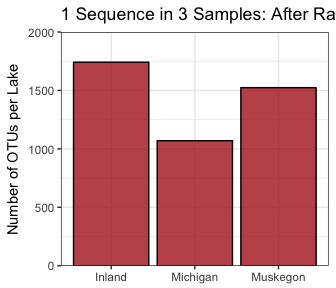
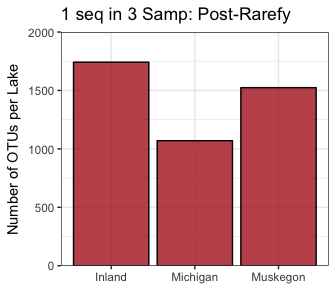
Modified figure titles

Changed region(s): [[0.2083, 0.0, 1.0, 0.0938]]

diff --git a/data/Chloroplasts_removed/remove_chloroplasts_bylake.md b/data/Chloroplasts_removed/remove_chloroplasts_bylake.md
@@ -411,7 +411,7 @@ df_1in3 <- data.frame(c(ntaxa(rare_muskegon_physeq_1in3_rel), ntaxa(rare_michiga
                  c("Muskegon","Michigan","Inland")) 
 colnames(df_1in3) <- c("NumOTUs","Lake")
 ggplot(df_1in3, aes(x = Lake, y = NumOTUs)) + ylab("Number of OTUs per Lake") +
-  ggtitle("1 Sequence in 3 Samples: After Rarefying") +
+  ggtitle("1 seq in 3 Samp: Post-Rarefy") +
   geom_bar(stat = "identity", fill = "firebrick", color = "black", alpha = 0.8) +
   scale_y_continuous(expand = c(0,0), limits = c(0,2000), breaks = seq(0,2000, by = 500)) +
   theme_bw() + theme(axis.title.x = element_blank())
@@ -607,7 +607,7 @@ df_5in10 <- data.frame(c(ntaxa(rare_muskegon_physeq_5in10_rel), ntaxa(rare_michi
                  c("Muskegon","Michigan","Inland")) 
 colnames(df_5in10) <- c("NumOTUs","Lake")
 ggplot(df_5in10, aes(x = Lake, y = NumOTUs)) + ylab("Number of OTUs per Lake") +
-  ggtitle("5 Sequence in 10% of Samples: After Rarefying") +
+  ggtitle("5 Seqs in 10%: Post-Rarefy") +
   geom_bar(stat = "identity", fill = "darkorange", color = "black", alpha = 0.8) +
   scale_y_continuous(expand = c(0,0), limits = c(0,600), breaks = seq(0,600, by = 100)) +
   theme_bw() + theme(axis.title.x = element_blank())
